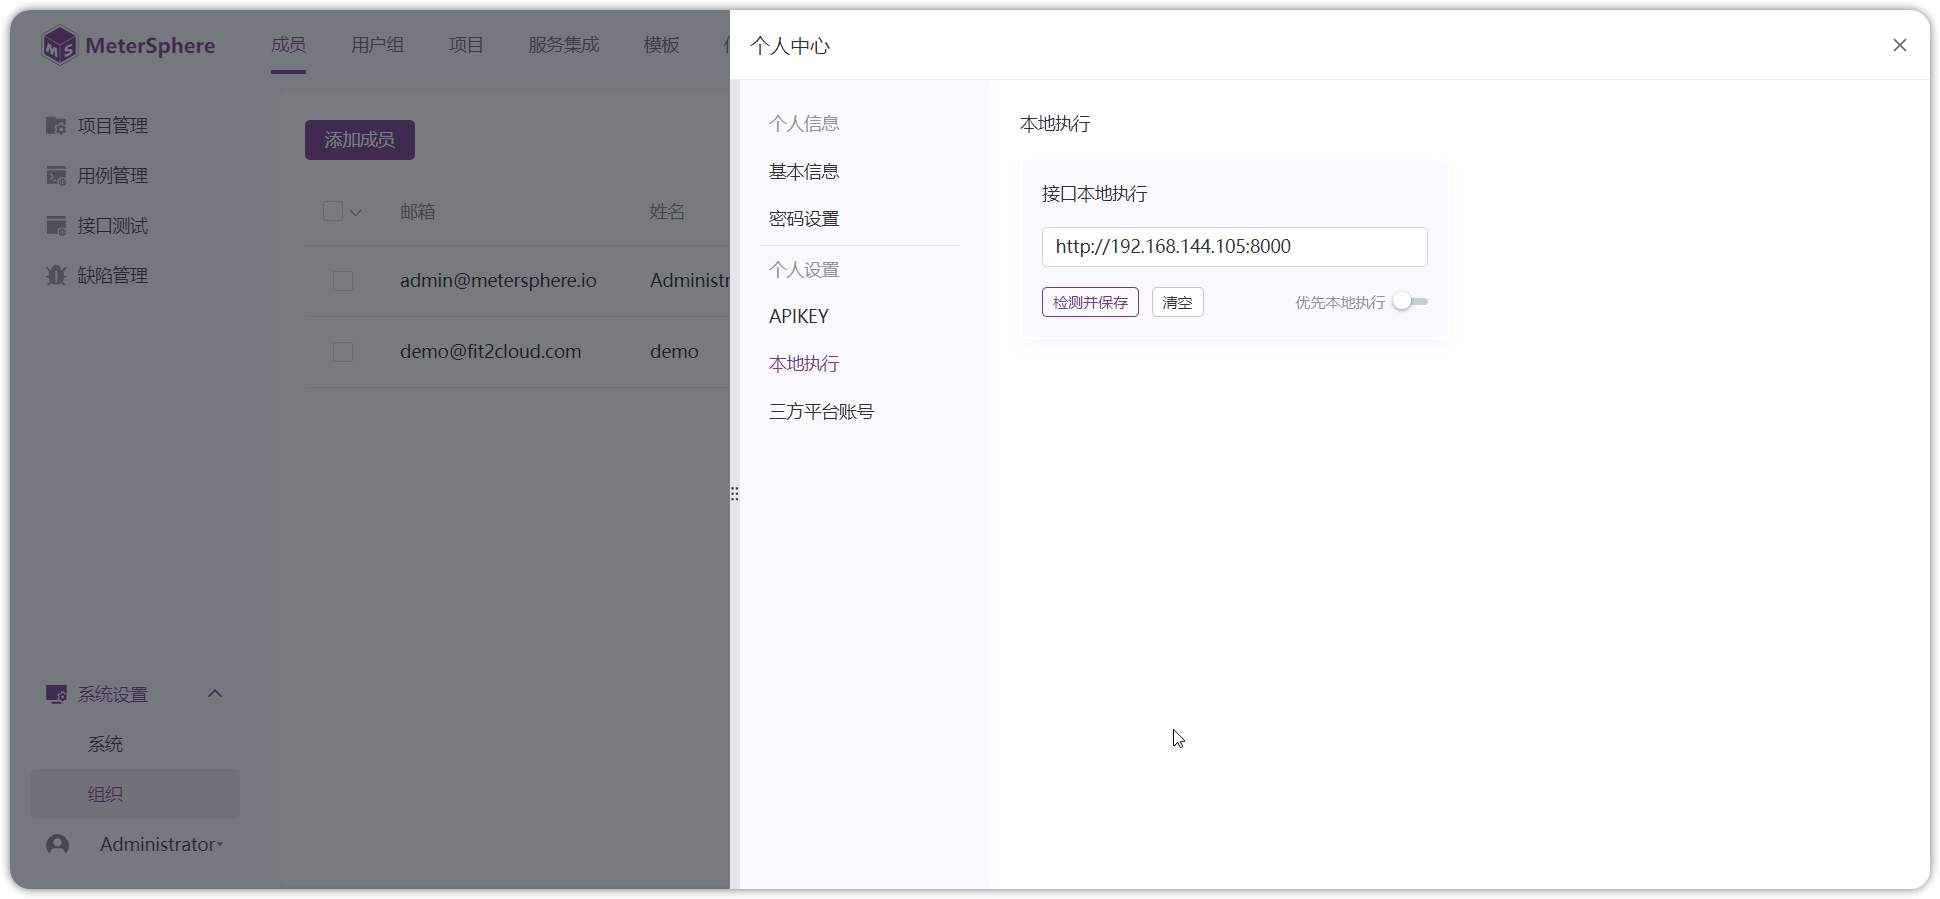
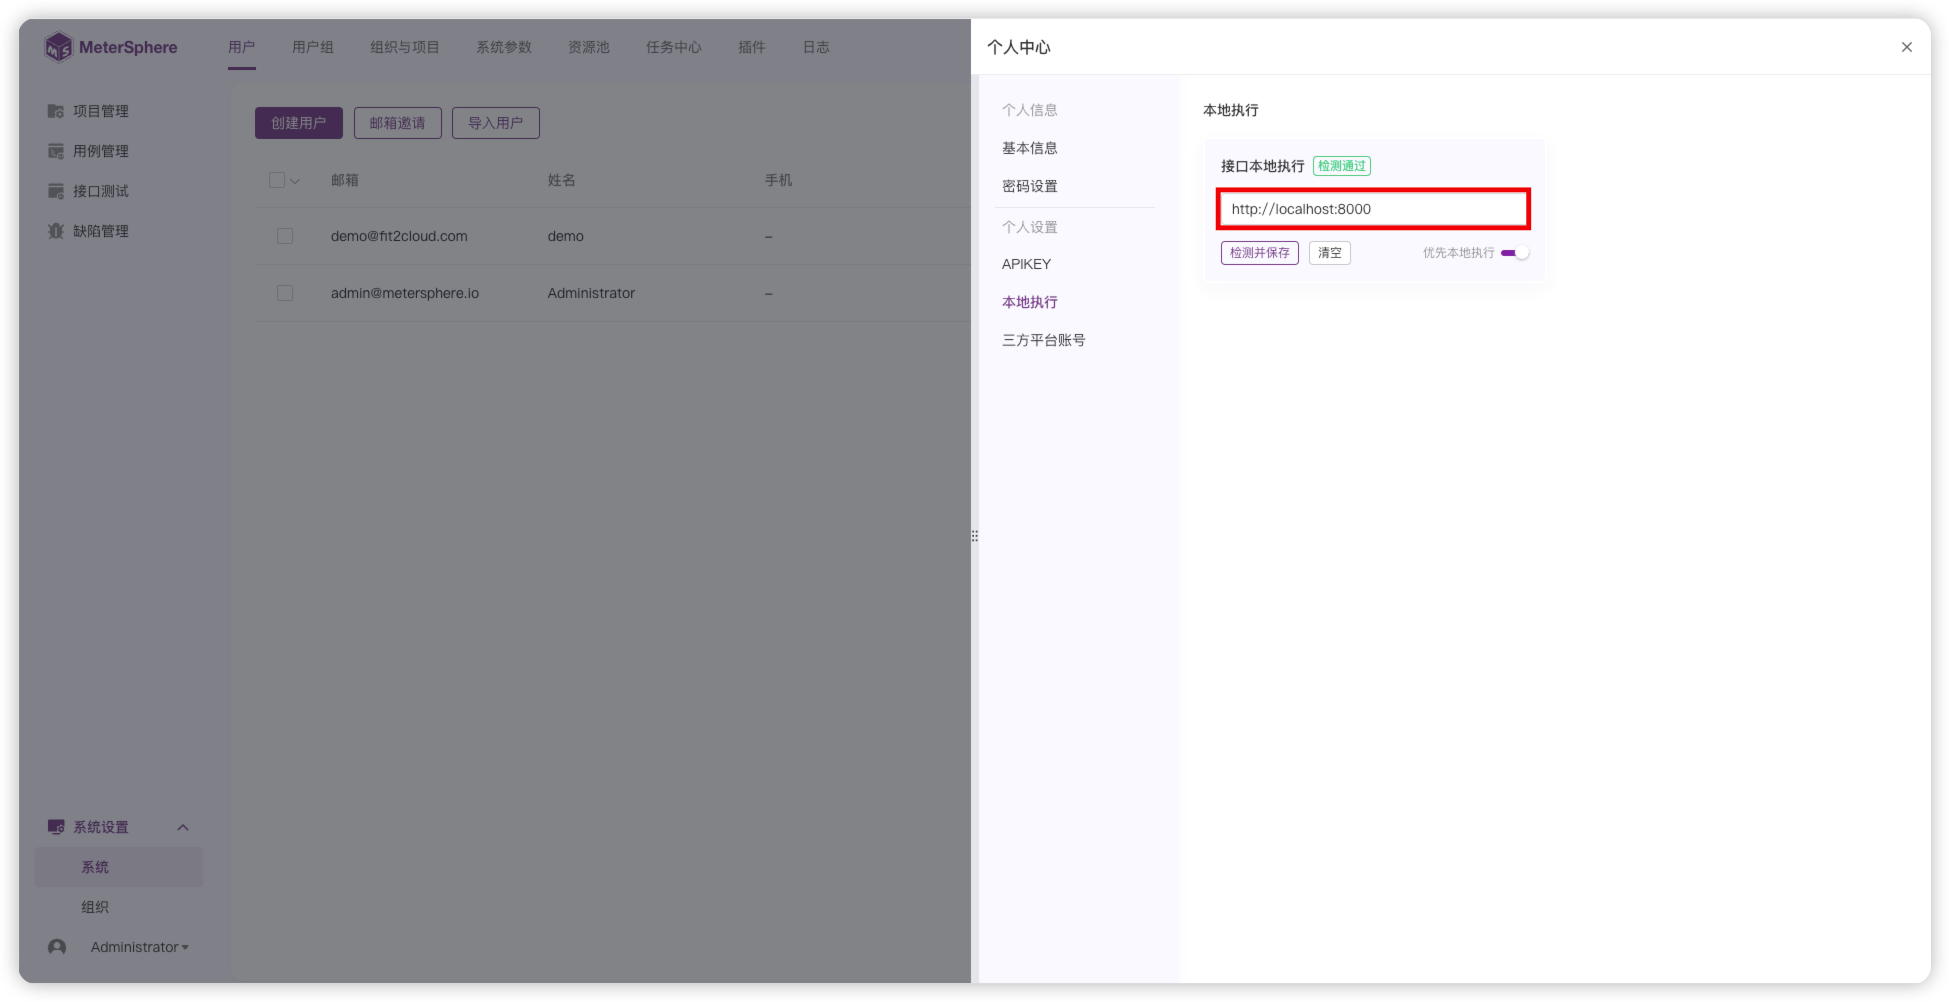
docs: task-runner 部署增加 mac 部署

diff --git a/docs/installation/task_runner.md b/docs/installation/task_runner.md
@@ -60,10 +60,7 @@ description: MeterSphere 一站式开源持续测试平台官方文档。MeterSp
     - 【IP、端口】：Node 资源池部署服务器的真实 ip ，默认 8000 端口， Monitor 为监控端口 9100。
   
 ## 2 本地执行部署 Task_Runner
-
-### 2.1 windows 部署
-
-
+### 2.1 Windows 系统部署
 !!! ms-abstract ""
      Windows 部署 task_runner 可使用 WSL 安装。 虚拟机配置如下：</br>
        
@@ -102,7 +99,7 @@ description: MeterSphere 一站式开源持续测试平台官方文档。MeterSp
         ```
  ![WSL版本1](../img/installation/dis_pressure/check-version-1.png){ width="900px" }
 
-!!! ms-abstract "检查 Ubunt 是否安装完成"
+!!! ms-abstract "检查 Ubuntu 是否安装完成"
 
         示例中安装的 Ubuntu Name 为 "Ubuntu"， 如像上图出现 Ubuntu 版本为 1， 则继续执行命令：
         ```
@@ -116,7 +113,7 @@ description: MeterSphere 一站式开源持续测试平台官方文档。MeterSp
 !!! ms-abstract "Docker 安装与配置"
         下载[Docker Desktop for Windows](https://desktop.docker.com/win/main/amd64/Docker%20Desktop%20Installer.exe)，双击 Docker Desktop Installer.exe 完成docker 的安装。
 
-        Docker Desktop 安装完成后，进入 Settings 界面，选择 Resources 菜单下的 WSL INTEGRATION，按下图设置后，点击右下角的`Apply & Restart`。
+        Docker Desktop 安装完成后，进入 Settings 界面，选择 Resources 菜单下的 WSL INTEGRATION，按下图设置后，点击右下角的 `Apply & Restart`。
 ![docker设置](../img/installation/dis_pressure/docker-settings.png){ width="900px" }
 
 
@@ -140,12 +137,12 @@ description: MeterSphere 一站式开源持续测试平台官方文档。MeterSp
     MS_INSTALL_MODE=task-runner
 
     
-    # 切换到 Ubunt 终端运行安装脚本
+    # 切换到 Ubuntu 终端运行安装脚本
     cd /mnt/d/metersphere-ce-online-installer-v3.X.y/metersphere-ce-online-installer-v3.x.y
     
     ./install.sh
     
-    # 查看 MeterSphere 状态，task-runner 状态为healthy 安装完成。
+    # 查看 MeterSphere 状态，task-runner 状态为 healthy 安装完成。
     msctl status
 
     #查看 Ubuntu 映射 ip 地址
@@ -159,12 +156,53 @@ description: MeterSphere 一站式开源持续测试平台官方文档。MeterSp
 
 
 !!! ms-abstract ""
-    
-    安装完成后，在【个人中心-本地执行】填写完整的访问 url：http://部署 task-runner 服务器 ip:8000 。例如：此处 ip 为192.168.144.105，因此本地运行地址为： http://192.168.144.105:8000。
-!!! ms-abstract "注意"
-    此处配置的本地调试地址，需要和 MeterSphere 主服务网络互通。
+    安装完成后，在【个人中心-本地执行】填写完整的访问 url：`http://localhost:8000` 。
 ![配置主机3](../img/installation/dis_pressure/本地.png){ width="900px" }
 
-### 2.2 mac 部署
+### 2.2 Mac 系统部署
 !!! ms-abstract ""
-    打开终端，按照以下步骤执行安装：
+    安装 OrbStack ，下载地址：https://orbstack.dev/download ,选择对应芯片架构的安装包下载、安装。
+
+!!! ms-abstract "说明"
+    如果是 Apple 芯片，需要开启 `Use Rosetta to run Intel code` ,开启后重启 OrbStack。<br>
+    Intel 芯片无需开启 `Use Rosetta to run Intel code` 。
+![mac 部署](../img/installation/dis_pressure/mac部署1.png){ width="900px" }
+
+!!! ms-abstract ""
+    在 OrbStack 创建 Ubuntu 虚拟机，操作系统建议选择 `Ubuntu 22.05 LTS`，CPU 架构选择 `Intel` 。
+![mac 部署](../img/installation/dis_pressure/mac部署2.png){ width="900px" }
+
+!!! ms-abstract ""
+    Ubuntu 虚拟机创建完成后，双击进入虚拟机，切换 root 用户，然后下载 MeterSphere 安装包并解压安装 Task-Runner ，具体步骤参考：[服务端部署 Task_Runner](#1)。
+        
+        
+        ```
+        # 切换 root 用户
+        sudo -i
+
+        # 安装 wget ，如果已经忽略此步
+        sudo apt-get update
+        sudo apt-get install wget
+        wget --version
+        # 下载在线安装包
+        wget https://github.com/metersphere/metersphere/releases/download/v3.x.y/metersphere-online-installer-v3.x.y.tar.gz
+        # 解压安装包
+        tar -zxvf metersphere-ce-online-installer-v3.x.y.tar.gz
+        
+        # 进入离线部署包解压缩目录
+        cd metersphere-ce-online-installer-v3.x.y
+        
+        # 修改部署模式为 task-runner
+        vi install.conf
+        
+        # 运行安装脚本
+        /bin/bash install.sh
+        
+        # 查看 MeterSphere 状态，task-runner 状态为healthy 安装完成。
+        msctl status
+        ```
+![mac 部署](../img/installation/dis_pressure/mac部署2.png){ width="900px" }
+
+!!! ms-abstract ""
+    安装完成后，在【个人中心-本地执行】填写完整的访问 url：`http://localhost:8000` 。
+![配置主机3](../img/installation/dis_pressure/本地.png){ width="900px" }
